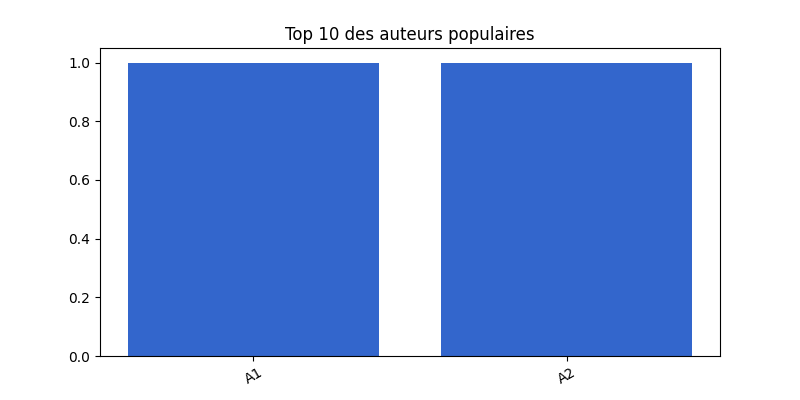
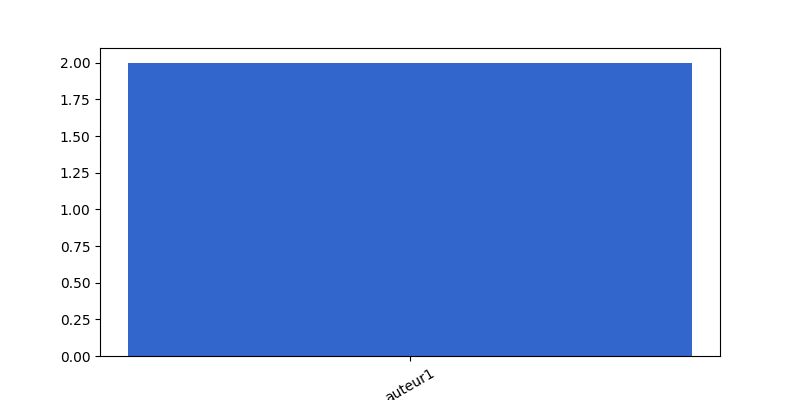
Ajout des modifictions

diff --git a/src/visualisations.py b/src/visualisations.py
@@ -1,5 +1,6 @@
 import matplotlib.pyplot as plt
 import csv
+from datetime import datetime
 from collections import Counter
 import os
 
@@ -16,29 +17,37 @@ plt.rcParams.update({
 #Diagramme circulaire : % de livres par genre
 def genre_pie_chart(bibliotheque):
     genres = [livre.genre for livre in bibliotheque.livres.values()]
-    if not genres:
-        return
-    counts = Counter(genres)
-    plt.figure(figsize=(6,6))
-    plt.pie(list(counts.values()),labels=list(counts.keys()),autopct='%1.1f%%')
-    plt.title("pourcentage de livres par genre")
     os.makedirs("assets",exist_ok=True)
+    plt.figure(figsize=(6,6))
+    if not genres:
+        plt.title("pourcentage de livres par genre")
+        plt.axis('off')
+    else:
+        counts = Counter(genres)
+        plt.pie(list(counts.values()),labels=list(counts.keys()),autopct='%1.1f%%')
+        plt.title("pourcentage de livres par genre")
+    
     plt.savefig("assets/stats_genres.png")
     plt.close()
 
 #Histogramme : Top 10 des auteurs les plus populaires
 def top_auteurs_barchart(bibliotheque):
     auteurs = [livre.auteur for livre in bibliotheque.livres.values()]
-    if not auteurs:
-        return
-    counts = Counter(auteurs).most_common(10)
-    noms= [auteur for auteur, _ in counts]
-    nb = [c for _,c in counts]
-    plt.figure(figsize=(8,4))
-    plt.bar(noms,nb,color="#3366cc")
-    plt.xticks(rotation=30)
-    plt.title("Top 10 des auteurs populaires")
     os.makedirs("assets",exist_ok=True)
+    plt.figure(figsize=(8,4))
+    if not auteurs:
+        plt.title("Top 10 des auteurs populaires")
+        plt.axis('off')
+
+    else :
+        counts = Counter(auteurs).most_common(10)
+        noms= [auteur for auteur, _ in counts]
+        nb = [c for _,c in counts]
+    
+        plt.bar(noms,nb,color="#3366cc")
+        plt.xticks(rotation=30)
+    
+    
     plt.savefig("assets/stats_auteurs.png")
     plt.close()
 
@@ -46,18 +55,22 @@ def top_auteurs_barchart(bibliotheque):
 #Courbe temporelle : Activité des emprunts (30 derniers jours)
 def activite_emprunt_courbe():
     jours = []
-    try:
-        with open("data/historique.csv") as f:
-            reader = csv.reader(f)
-            for row in reader:
-                jours.append(row[0])
-    except FileNotFoundError:
-        return
-    if not jours:
-        return
+    
+    with open("data/historique.csv") as f:
+        reader = csv.reader(f,delimiter=";")
+        for row in reader:
+            if len(row)<1 or not row[0].strip():
+                continue
+            try :
+                date = datetime.strptime(row[0],"%Y-%m-%d")
+                jours.append(date.date())
+            except ValueError:
+                continue
+    
     counts = Counter(jours)
-    sorted_dates = sorted(counts)
+    sorted_dates = sorted(counts.keys())
     valeurs =[counts[d] for d in sorted_dates]
+    plt.figure(figsize=(10,5))
     plt.plot(sorted_dates,valeurs,marker="o")
     plt.xticks(rotation=45)
     plt.tight_layout()

diff --git a/src/bibliotheque.py b/src/bibliotheque.py
@@ -2,6 +2,7 @@ import json #pour sauvegarder les liste de livres dans membres.txt...
 import csv #pour enregistrer l'historique des emprunts/retours
 from datetime import datetime #pour dater chaque emprunt/retour
 from exceptions import * #importer les exceptions personnalisées depui exceptions.py
+import os
 
 class Livre:
     def __init__(self,ISBN,titre,auteur,annee,genre,status = 'disponible'):
@@ -67,9 +68,11 @@ class Bibliotheque:
         self.log_historique(ISBN,ID,"retour")
     
     def log_historique(self,ISBN,ID,action):
-        with open("data/historique.csv","a",newline='') as f:
-            writer = csv.writer(f)
-            writer.writerow([datetime.now().date(),ISBN,ID,action])
+        os.makedirs("data",exist_ok=True)
+        with open("data/historique.csv","a",newline="") as f:
+            writer = csv.writer(f,delimiter=";")
+            date = datetime.now().strftime("%Y-%m-%d")
+            writer.writerow([date,ISBN,ID,action])
     
     def sauvegarder_donnees(self):
         with open("data/livres.txt","w") as f:
